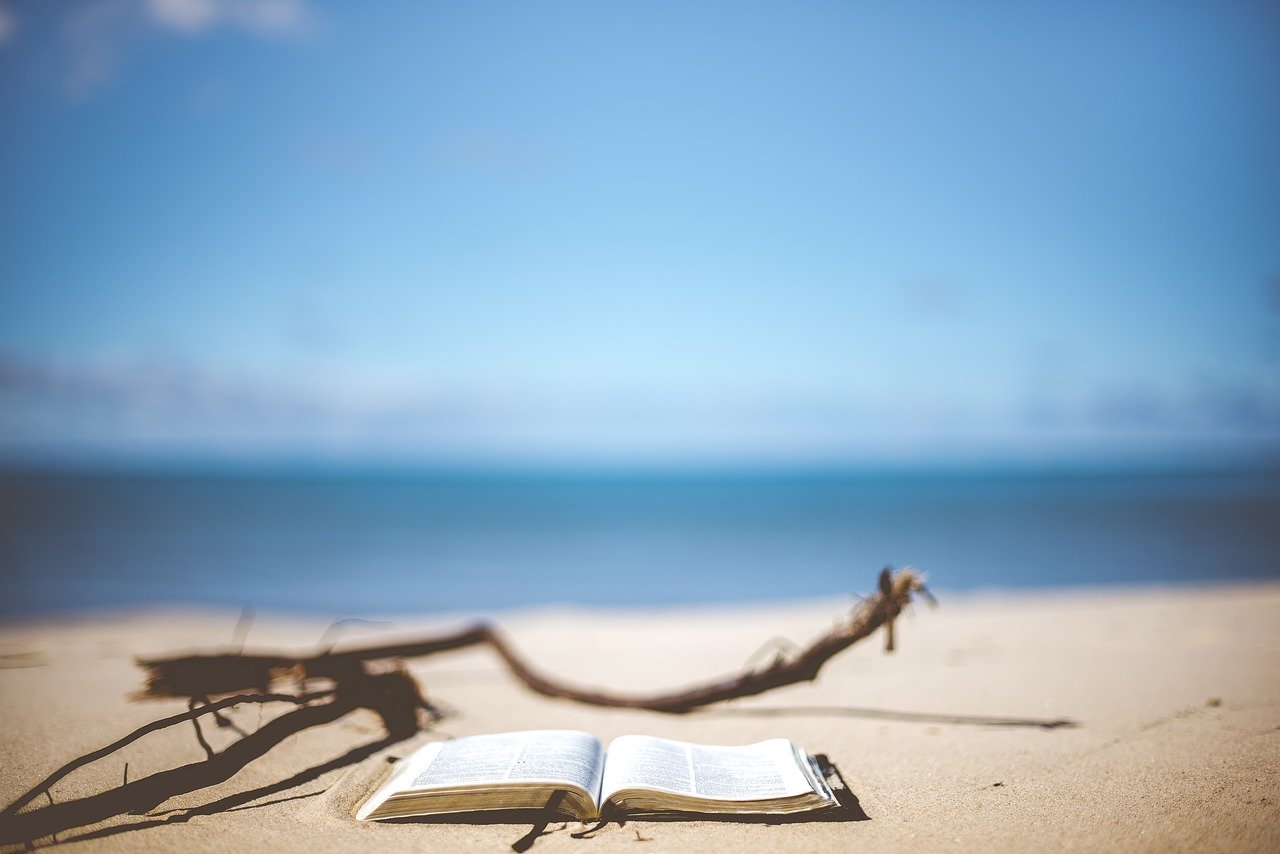
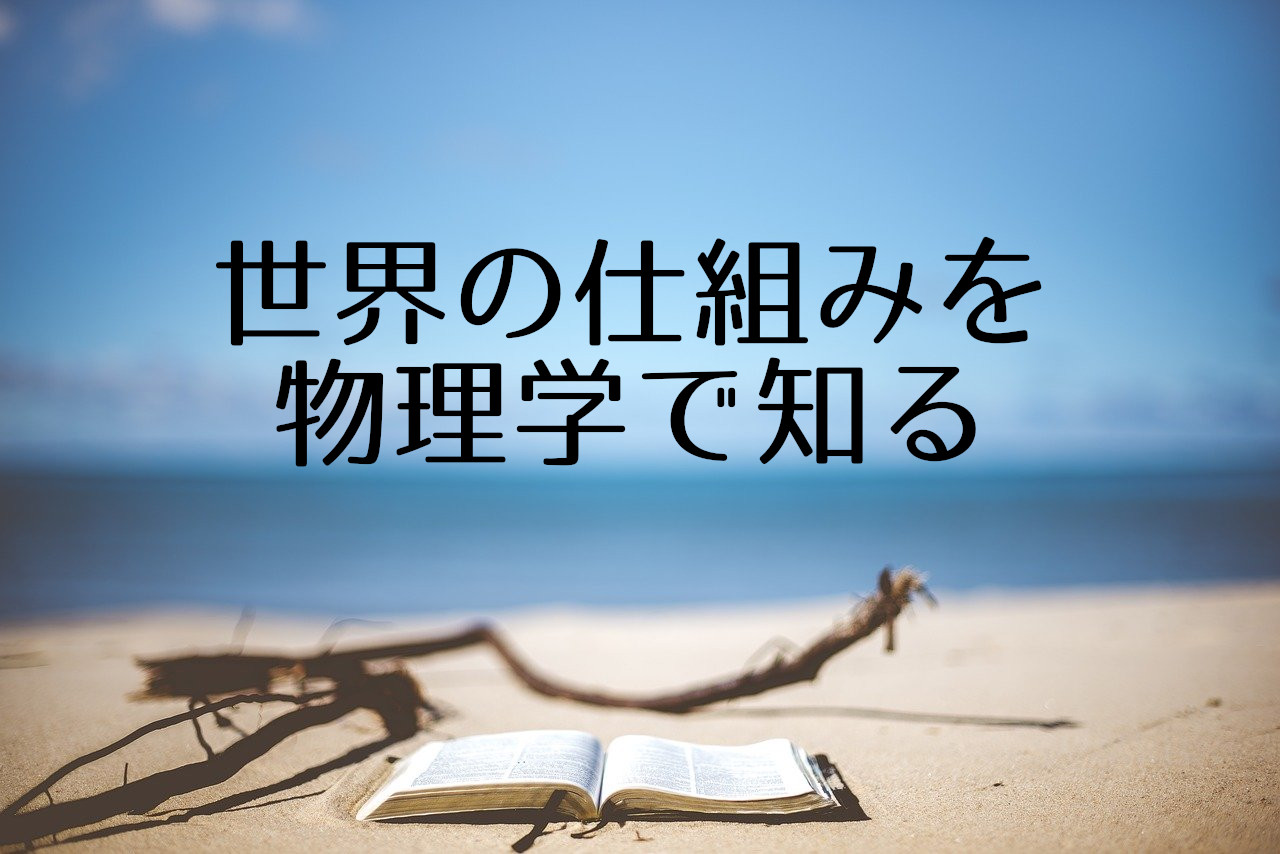
rebuilding site 2020年  1月 10日 金曜日 18:13:46 JST

Changed region(s): [[0.1562, 0.274, 0.8125, 0.548]]

diff --git a/index.html b/index.html
@@ -963,7 +963,7 @@ Hugo + Academicテーマ を使って作成してます。</p>
     
     
     <a href="/post/bookidea-lesson/" >
-      <img src="/post/bookidea-lesson/featured_hu43bed19c08595359055e105b6839e7e8_89645_150x0_resize_q90_lanczos.jpg" alt="">
+      <img src="/post/bookidea-lesson/featured_huac1f9cbba53b269704403a4c60c31313_155519_150x0_resize_q90_lanczos.jpg" alt="">
     </a>
     
   </div>
@@ -1057,7 +1057,7 @@ Hugo + Academicテーマ を使って作成してます。</p>
     
     
     <a href="/post/booksekai-physics/" >
-      <img src="/post/booksekai-physics/featured_hu43bed19c08595359055e105b6839e7e8_89645_150x0_resize_q90_lanczos.jpg" alt="">
+      <img src="/post/booksekai-physics/featured_hu2c38f7adbf6347a1586ffae9f3624eac_192201_150x0_resize_q90_lanczos.jpg" alt="">
     </a>
     
   </div>
@@ -1151,7 +1151,7 @@ Hugo + Academicテーマ を使って作成してます。</p>
     
     
     <a href="/post/bookdaigo-time/" >
-      <img src="/post/bookdaigo-time/featured_hu43bed19c08595359055e105b6839e7e8_89645_150x0_resize_q90_lanczos.jpg" alt="">
+      <img src="/post/bookdaigo-time/featured_hu6bcf9fa7ec6a3252f154bfff20f1052c_157262_150x0_resize_q90_lanczos.jpg" alt="">
     </a>
     
   </div>
@@ -1245,7 +1245,7 @@ Hugo + Academicテーマ を使って作成してます。</p>
     
     
     <a href="/post/bookshikou/" >
-      <img src="/post/bookshikou/featured_hu43bed19c08595359055e105b6839e7e8_89645_150x0_resize_q90_lanczos.jpg" alt="">
+      <img src="/post/bookshikou/featured_huee33770ebbbf3baa07be1f2c574b676a_163791_150x0_resize_q90_lanczos.jpg" alt="">
     </a>
     
   </div>

diff --git a/post/index.html b/post/index.html
@@ -667,7 +667,7 @@
   
   
   <a href="/post/bookidea-lesson/">
-      <img src="/post/bookidea-lesson/featured_hu43bed19c08595359055e105b6839e7e8_89645_918x517_fill_q90_lanczos_bottom.jpg" class="article-banner" alt="">
+      <img src="/post/bookidea-lesson/featured_huac1f9cbba53b269704403a4c60c31313_155519_918x517_fill_q90_lanczos_bottom.jpg" class="article-banner" alt="">
   </a>
   
 
@@ -751,7 +751,7 @@
   
   
   <a href="/post/booksekai-physics/">
-      <img src="/post/booksekai-physics/featured_hu43bed19c08595359055e105b6839e7e8_89645_918x517_fill_q90_lanczos_bottom.jpg" class="article-banner" alt="">
+      <img src="/post/booksekai-physics/featured_hu2c38f7adbf6347a1586ffae9f3624eac_192201_918x517_fill_q90_lanczos_bottom.jpg" class="article-banner" alt="">
   </a>
   
 
@@ -835,7 +835,7 @@
   
   
   <a href="/post/bookdaigo-time/">
-      <img src="/post/bookdaigo-time/featured_hu43bed19c08595359055e105b6839e7e8_89645_918x517_fill_q90_lanczos_bottom.jpg" class="article-banner" alt="">
+      <img src="/post/bookdaigo-time/featured_hu6bcf9fa7ec6a3252f154bfff20f1052c_157262_918x517_fill_q90_lanczos_bottom.jpg" class="article-banner" alt="">
   </a>
   
 
@@ -919,7 +919,7 @@
   
   
   <a href="/post/bookshikou/">
-      <img src="/post/bookshikou/featured_hu43bed19c08595359055e105b6839e7e8_89645_918x517_fill_q90_lanczos_bottom.jpg" class="article-banner" alt="">
+      <img src="/post/bookshikou/featured_huee33770ebbbf3baa07be1f2c574b676a_163791_918x517_fill_q90_lanczos_bottom.jpg" class="article-banner" alt="">
   </a>
   
 

diff --git a/post/booksekai-physics/index.html b/post/booksekai-physics/index.html
@@ -629,7 +629,7 @@
 
 <div class="article-header article-container featured-image-wrapper mt-4 mb-4" style="max-width: 720px; max-height: 480px;">
   <div style="position: relative">
-    <img src="/post/booksekai-physics/featured_hu43bed19c08595359055e105b6839e7e8_89645_720x0_resize_q90_lanczos.jpg" alt="" class="featured-image">
+    <img src="/post/booksekai-physics/featured_hu2c38f7adbf6347a1586ffae9f3624eac_192201_720x0_resize_q90_lanczos.jpg" alt="" class="featured-image">
     
   </div>
 </div>

diff --git a/post/bookidea-lesson/index.html b/post/bookidea-lesson/index.html
@@ -629,7 +629,7 @@
 
 <div class="article-header article-container featured-image-wrapper mt-4 mb-4" style="max-width: 720px; max-height: 480px;">
   <div style="position: relative">
-    <img src="/post/bookidea-lesson/featured_hu43bed19c08595359055e105b6839e7e8_89645_720x0_resize_q90_lanczos.jpg" alt="" class="featured-image">
+    <img src="/post/bookidea-lesson/featured_huac1f9cbba53b269704403a4c60c31313_155519_720x0_resize_q90_lanczos.jpg" alt="" class="featured-image">
     
   </div>
 </div>

diff --git a/post/bookdaigo-time/index.html b/post/bookdaigo-time/index.html
@@ -629,7 +629,7 @@
 
 <div class="article-header article-container featured-image-wrapper mt-4 mb-4" style="max-width: 720px; max-height: 480px;">
   <div style="position: relative">
-    <img src="/post/bookdaigo-time/featured_hu43bed19c08595359055e105b6839e7e8_89645_720x0_resize_q90_lanczos.jpg" alt="" class="featured-image">
+    <img src="/post/bookdaigo-time/featured_hu6bcf9fa7ec6a3252f154bfff20f1052c_157262_720x0_resize_q90_lanczos.jpg" alt="" class="featured-image">
     
   </div>
 </div>

diff --git a/post/bookshikou/index.html b/post/bookshikou/index.html
@@ -629,7 +629,7 @@
 
 <div class="article-header article-container featured-image-wrapper mt-4 mb-4" style="max-width: 720px; max-height: 480px;">
   <div style="position: relative">
-    <img src="/post/bookshikou/featured_hu43bed19c08595359055e105b6839e7e8_89645_720x0_resize_q90_lanczos.jpg" alt="" class="featured-image">
+    <img src="/post/bookshikou/featured_huee33770ebbbf3baa07be1f2c574b676a_163791_720x0_resize_q90_lanczos.jpg" alt="" class="featured-image">
     
   </div>
 </div>
